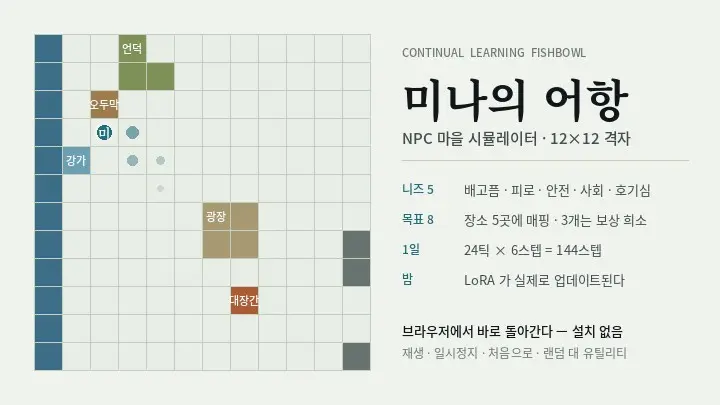
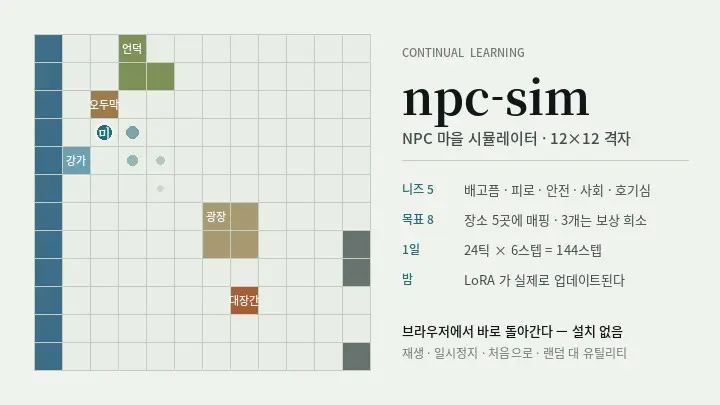
Deploying to gh-pages from @ jkkim-irim/jkkim-irim.github.io@adef6feb633bdb37eb9d177b2e5b7d1a73a84b53 🚀

Changed region(s): [[0.55, 0.1778, 0.8861, 0.3259], [0.7333, 0.1185, 0.825, 0.1481]]

diff --git a/npc-sim/index.html b/npc-sim/index.html
@@ -1,5 +1,5 @@
 <meta charset="utf-8">
-<title>미나의 어항</title>
+<title>npc-sim</title>
 <link rel="preconnect" href="https://fonts.googleapis.com">
 <link rel="preconnect" href="https://fonts.gstatic.com" crossorigin>
 <link rel="stylesheet" href="https://fonts.googleapis.com/css2?family=Gowun+Batang:wght@400;700&family=IBM+Plex+Sans+KR:wght@400;500;600&family=IBM+Plex+Mono:wght@400;500&display=swap">
@@ -242,7 +242,7 @@ button{font:inherit; color:inherit; cursor:pointer}
 
 <div class="wrap">
   <p class="eyebrow">S1 · 월드 + 화면 · LLM 없음</p>
-  <h1>미나의 어항</h1>
+  <h1>npc-sim</h1>
   <p class="dek">약초를 캐서 파는 <b>미나</b>가 12×12 마을을 걷는다. 니즈 다섯 개가 매 스텝
     자라고, 목표에 맞는 장소에 서 있는 동안에만 줄어든다. <b>정책</b>을 랜덤 행동으로 바꿔
     보면 아래 숫자가 무너진다 — 그 격차가 S1 의 합격 기준이다.</p>

diff --git a/assets/jupyter/blog.ipynb.html b/assets/jupyter/blog.ipynb.html
@@ -1,4 +1,4 @@
-<!DOCTYPE html> <html lang="en"> <head><meta charset="utf-8"/> <meta content="width=device-width, initial-scale=1.0" name="viewport"/> <title>jekyll-jupyter-notebook20260821-3490-1lfrc4</title><script src="https://cdnjs.cloudflare.com/ajax/libs/require.js/2.1.10/require.min.js"></script> <style type="text/css">
+<!DOCTYPE html> <html lang="en"> <head><meta charset="utf-8"/> <meta content="width=device-width, initial-scale=1.0" name="viewport"/> <title>jekyll-jupyter-notebook20260821-3419-aqacf6</title><script src="https://cdnjs.cloudflare.com/ajax/libs/require.js/2.1.10/require.min.js"></script> <style type="text/css">
     pre { line-height: 125%; }
 td.linenos .normal { color: inherit; background-color: transparent; padding-left: 5px; padding-right: 5px; }
 span.linenos { color: inherit; background-color: transparent; padding-left: 5px; padding-right: 5px; }
